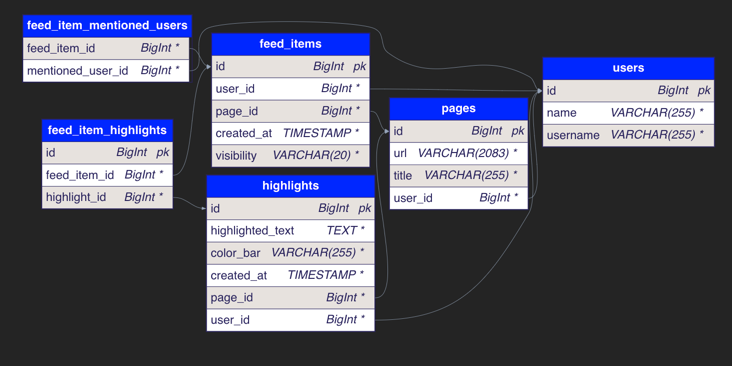
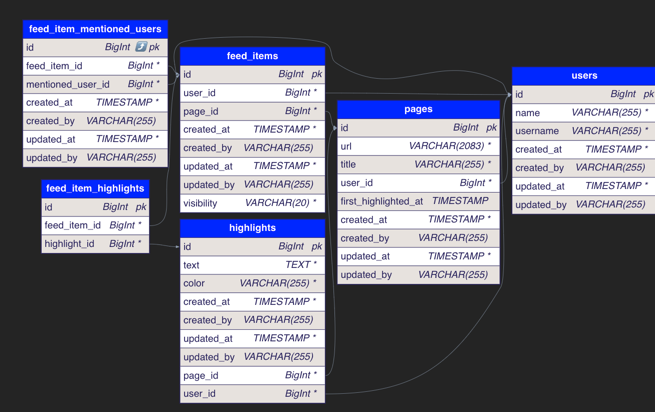
docs : 파일 수정

diff --git a/src/main/kotlin/com/liner/feed/domain/entity/user/UserEntity.kt b/src/main/kotlin/com/liner/feed/domain/entity/user/UserEntity.kt
@@ -2,6 +2,7 @@ package com.liner.feed.domain.entity.user
 
 import jakarta.persistence.Entity
 import jakarta.persistence.GeneratedValue
+import jakarta.persistence.GenerationType
 import jakarta.persistence.Id
 import jakarta.persistence.Table
 
@@ -9,7 +10,7 @@ import jakarta.persistence.Table
 @Table(name = "users")
 class UserEntity(
     @Id
-    @GeneratedValue
+    @GeneratedValue(strategy = GenerationType.IDENTITY)
     val id: Long = 0,
     val name: String,
     val userName: String,

diff --git a/README.md b/README.md
@@ -21,14 +21,13 @@
 - Docker Compose 를 설치하고 실행합니다.
 
 ```bash
-docker-compose up -d 
+docker-compose up -d # 프로젝트 루트 디렉토리에서 실행 
 ```
 
 - MySQL 서버 시작: MySQL 서버가 시작되면 애플리케이션은 MySQL을 사용하여 데이터를 저장합니다.
 - DDL 실행
     - (만약 테이블이 정상적으로 생성되지 않았다면) 아래 파일을 확인하여 MySQL 서버 내에 테이블을 생성합니다.
     - /src/main/resources/sql/ddl.sql
-
 
 2. **애플리케이션 실행**
 
@@ -114,5 +113,93 @@ WHERE h.page_id IN (?, ?, ?)
 CREATE INDEX idx_highlight_page_user ON highlights (page_id, user_id);
 ```
 
-
 ## ERD 및 DDL 
+
+![img.png](/src/main/resources/file/img.png)
+
+```sql
+CREATE TABLE users
+(
+    id         BigInt PRIMARY KEY,
+    name       VARCHAR(255) NOT NULL,
+    username   VARCHAR(255) NOT NULL,
+    created_at TIMESTAMP    NOT NULL DEFAULT CURRENT_TIMESTAMP,
+    created_by VARCHAR(255),
+    updated_at TIMESTAMP    NOT NULL DEFAULT CURRENT_TIMESTAMP ON UPDATE CURRENT_TIMESTAMP,
+    updated_by VARCHAR(255)
+);
+
+CREATE TABLE pages
+(
+    id                 BigInt PRIMARY KEY,
+    url                VARCHAR(2083) NOT NULL, -- URL 길이를 고려하여 2083자로 설정
+    title              VARCHAR(255)  NOT NULL,
+    user_id            BigInt        NOT NULL,
+    first_highlighted_at TIMESTAMP     NULL,
+    created_at         TIMESTAMP     NOT NULL DEFAULT CURRENT_TIMESTAMP,
+    created_by         VARCHAR(255),
+    updated_at         TIMESTAMP     NOT NULL DEFAULT CURRENT_TIMESTAMP ON UPDATE CURRENT_TIMESTAMP,
+    updated_by         VARCHAR(255)
+);
+
+CREATE INDEX idx_page_user_id ON pages (user_id);
+CREATE INDEX idx_page_first_highlighted_at ON pages (first_highlighted_at);
+
+CREATE TABLE highlights
+(
+    id         BigInt PRIMARY KEY,
+    text       TEXT         NOT NULL,
+    color      VARCHAR(255) NOT NULL,
+    created_at TIMESTAMP    NOT NULL DEFAULT CURRENT_TIMESTAMP,
+    created_by VARCHAR(255),
+    updated_at TIMESTAMP    NOT NULL DEFAULT CURRENT_TIMESTAMP ON UPDATE CURRENT_TIMESTAMP,
+    updated_by VARCHAR(255),
+    page_id    BigInt       NOT NULL,
+    user_id    BigInt       NOT NULL
+);
+
+CREATE INDEX idx_highlight_page_id ON highlights (page_id);
+CREATE INDEX idx_highlight_user_id ON highlights (user_id);
+CREATE INDEX idx_highlight_page_user_id ON highlights (page_id, user_id);
+
+CREATE TABLE feed_items
+(
+    id         BigInt PRIMARY KEY,
+    user_id    BigInt      NOT NULL,
+    page_id    BigInt      NOT NULL,
+    created_at TIMESTAMP   NOT NULL DEFAULT CURRENT_TIMESTAMP,
+    created_by VARCHAR(255),
+    updated_at TIMESTAMP   NOT NULL DEFAULT CURRENT_TIMESTAMP ON UPDATE CURRENT_TIMESTAMP,
+    updated_by VARCHAR(255),
+    visibility VARCHAR(20) NOT NULL
+);
+
+CREATE INDEX idx_feed_item_user_id ON feed_items (user_id);
+CREATE INDEX idx_feed_item_page_id ON feed_items (page_id);
+CREATE INDEX idx_feed_item_visibility ON feed_items (visibility);
+CREATE INDEX idx_feed_item_user_page_visibility ON feed_items (user_id, page_id, visibility);
+
+CREATE TABLE feed_item_mentioned_users
+(
+    id                BigInt    PRIMARY KEY AUTO_INCREMENT,
+    feed_item_id      BigInt    NOT NULL,
+    mentioned_user_id BigInt    NOT NULL,
+    created_at        TIMESTAMP NOT NULL DEFAULT CURRENT_TIMESTAMP,
+    created_by        VARCHAR(255),
+    updated_at        TIMESTAMP NOT NULL DEFAULT CURRENT_TIMESTAMP ON UPDATE CURRENT_TIMESTAMP,
+    updated_by        VARCHAR(255)
+);
+
+CREATE INDEX idx_feed_item_feed_item_id ON feed_item_mentioned_users (feed_item_id);
+CREATE INDEX idx_feed_item_mentioned_users ON feed_item_mentioned_users (mentioned_user_id);
+CREATE INDEX idx_feed_item_feed_item_id_mentioned_users ON feed_item_mentioned_users (mentioned_user_id, feed_item_id);
+
+CREATE TABLE feed_item_highlights (
+    id BigInt PRIMARY KEY,
+    feed_item_id BigInt NOT NULL,
+    highlight_id BigInt NOT NULL
+);
+
+CREATE INDEX idx_feed_item_highlight_feed_item_id ON feed_item_highlights (feed_item_id);
+CREATE INDEX idx_feed_item_highlight_highlight_id ON feed_item_highlights (highlight_id);
+```
